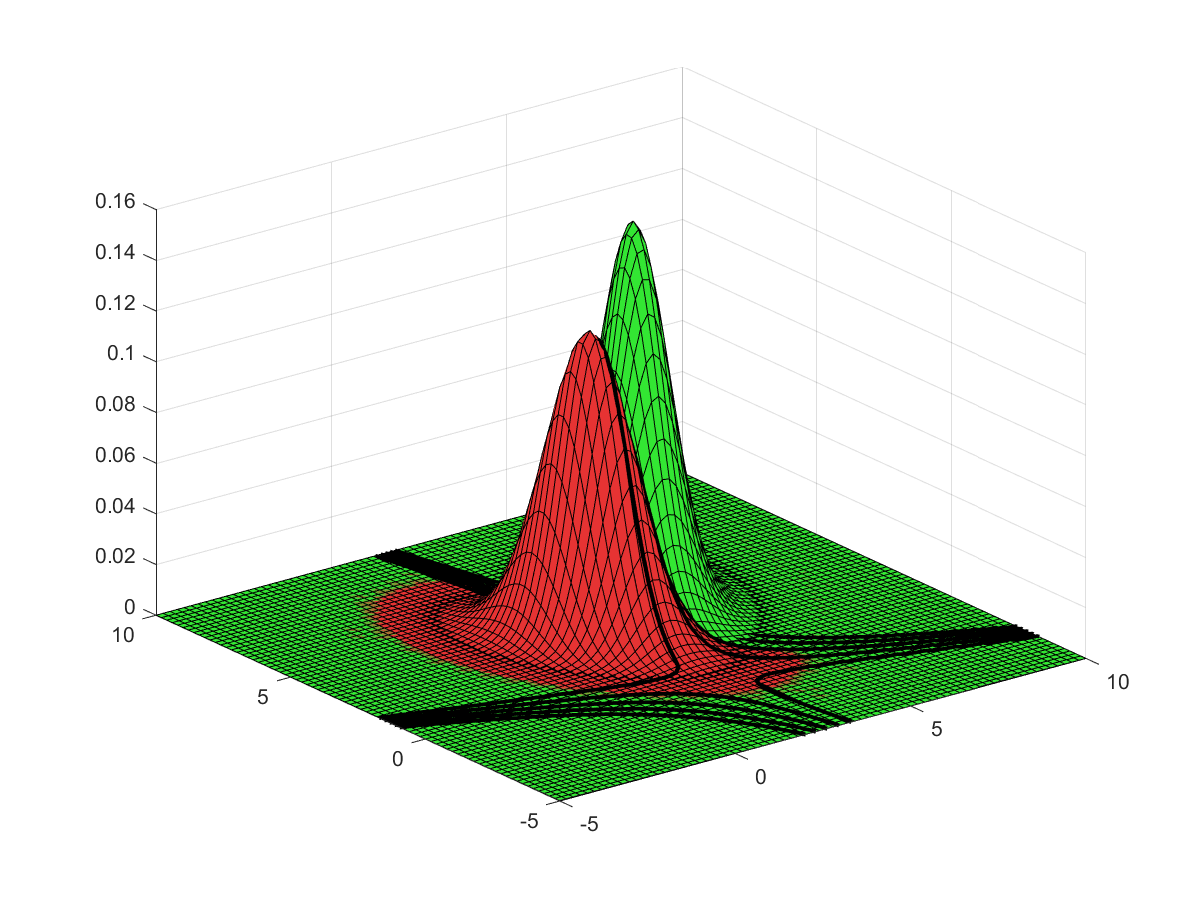
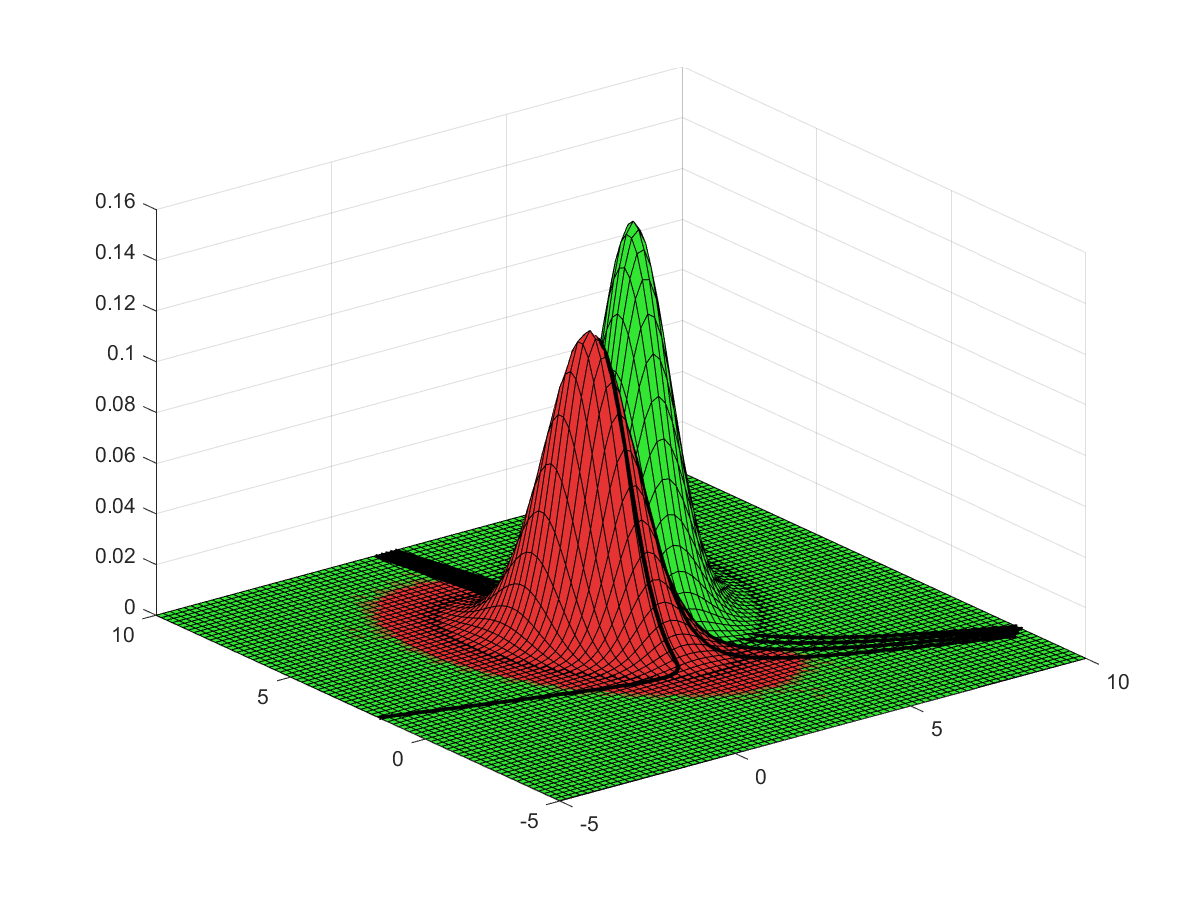
Fixed Q4 issues

Changed region(s): [[0.3083, 0.7467, 0.7092, 0.84], [0.6475, 0.7156, 0.8017, 0.7467], [0.8325, 0.6844, 0.8633, 0.7156]]

diff --git a/exercise1_4/bayes.m b/exercise1_4/bayes.m
@@ -26,8 +26,15 @@ for p1 = [.1, .25, .5, .75, .9]
     C = contours(x1, x2, gdiff, [0,0]); %get points where contour is zero
     
     %get seperate coordinates of contour
-    x1s = C(1, 2:end);
-    x2s = C(2, 2:end);
+    my_range = 2:107;
+    x1s = C(1, my_range);
+    x2s = C(2, my_range);
+
+    % Fit a quadratic polynomial to the data
+    p = polyfit(x1s, x2s, 2);
+    
+    % Print the resulting polynomial equation
+    fprintf('(p1 = %.2f) The fitted function is: %.2fx^2 + %.2fx + %.2f\n', p1, p(1), p(2), p(3));
     
     %interporlate contour on gaussian 1
     boundry = interp2(x1, x2, g1, x1s, x2s);
@@ -36,7 +43,7 @@ for p1 = [.1, .25, .5, .75, .9]
     line(x1s, x2s, boundry, 'Color', 'k', 'LineWidth', 2);
 end
 
-fprintf("Program paused. Press enter to continue.\n")
+fprintf("\nProgram paused. Press enter to continue.\n\n")
 pause;
 clear all;
 
@@ -71,6 +78,12 @@ for p1 = [.1, .25, .5, .75, .9]
     x1s = C(1, 2:end);
     x2s = C(2, 2:end);
     
+    % Fit a quadratic polynomial to the data
+    p = polyfit(x1s, x2s, 1);
+    
+    % Print the resulting polynomial equation
+    fprintf('(p1 = %.2f) The fitted function is: %.2fx + %.2f\n', p1, p(1), p(2));
+
     %interporlate contour on gaussian 1
     boundry = interp2(x1, x2, g1, x1s, x2s);
     
@@ -78,4 +91,4 @@ for p1 = [.1, .25, .5, .75, .9]
     line(x1s, x2s, boundry, 'Color', 'k', 'LineWidth', 2);
 end
 
-%saving_figs('C:\Users\harilaos\Desktop\1\SMAP-proj1\exercise1_4\images');
+%saving_figs('C:\\Users\\harilaos\\Desktop\\1\\SMAP-proj1\\exercise1_4\\images');
